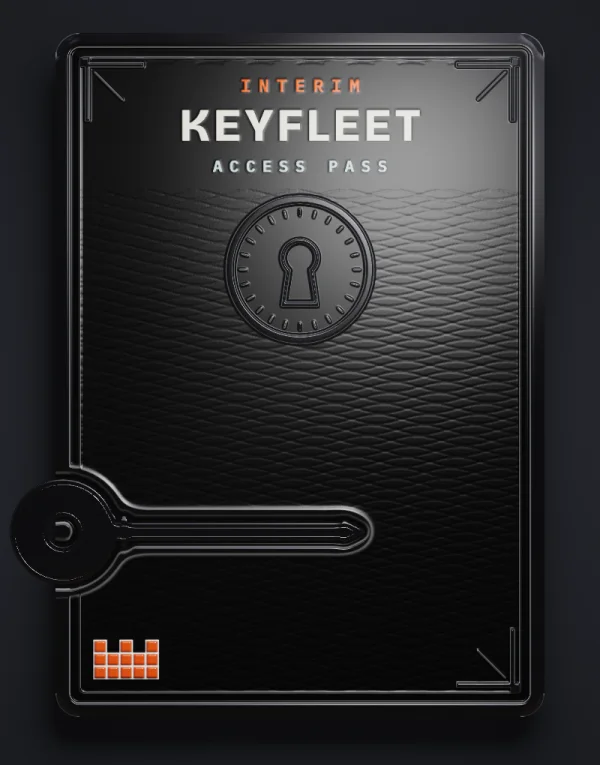
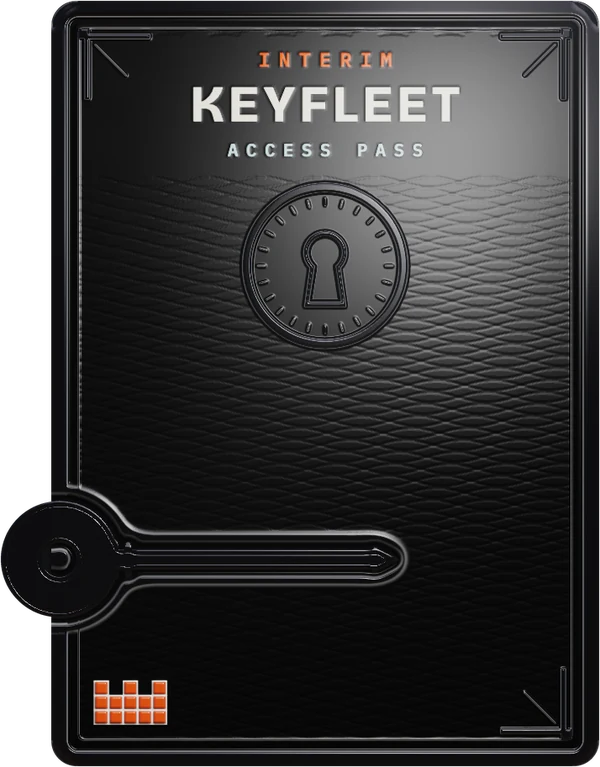
Keyfleet hero: live hex field and cut-out Key pass
The hex field answers the pointer, touch and scroll: whole tiles warm along
the pointer's path and fade, a press or tap sends a ring outward, and a
touch drag or a scroll under a resting mouse leaves the same trail. The
field draws only while a mark is fading and is still otherwise; reduced
motion keeps the still picture.

The pass is cut out of its studio backdrop so it stands on the field with a
shadow along its own outline, and the price tag sits beside the crown.

diff --git a/platform/assets/js/hooks/keyfleet_hero.ts b/platform/assets/js/hooks/keyfleet_hero.ts
@@ -48,11 +48,20 @@ const finePointer = () => matchMedia("(hover: hover) and (pointer: fine)").match
 
 type IslandHook = {el: HTMLElement; controller?: CanvasIslandController}
 
+/** How many tiles apart the marks of a wake are laid, and the most one move may lay. */
+const WAKE_SPACING = 0.5
+const WAKE_MARKS_PER_MOVE = 12
+
 /**
  * The hex field. `data-field-cell` is the distance between neighbouring tiles
- * in CSS pixels. The pointer anywhere in the element marked `data-field-scope`
- * lights the tiles near it; inside a hero, previewing the Key lights the tiles
- * around the card. Less motion keeps the picture and drops the pointer's light.
+ * in CSS pixels. Anywhere in the element marked `data-field-scope`, a mouse
+ * lights the tiles near it, and a mouse or a finger leaves a wake of lit tiles
+ * that fades behind it; scrolling under a resting mouse draws the wake along
+ * the tiles passing beneath it. A press or a tap sends a ring out across the
+ * tiles. Inside a hero, previewing the Key, by pointing or by tabbing to Buy,
+ * lights the tiles around the card. Nothing moves unless someone does, and
+ * the field is still again shortly after. Less motion keeps the picture and
+ * drops the pointer's light, the wake and the ring.
  */
 export const KeyfleetField = {
   mounted(this: IslandHook) {
@@ -99,14 +108,62 @@ export const KeyfleetField = {
           preview()
         })
 
+        // The last place the wake reached, in CSS pixels across the canvas, so a
+        // fast move or a scroll still leaves an unbroken line of tiles.
+        let trail: [number, number] | undefined
+        let mouse: [number, number] | undefined
+        const leave = (clientX: number, clientY: number) => {
+          const field = renderer()
+          if (!field) return
+          const box = canvas().getBoundingClientRect()
+          const to: [number, number] = [clientX - box.left, clientY - box.top]
+          const from = trail ?? to
+          const spacing = cell * WAKE_SPACING
+          const gap = Math.hypot(to[0] - from[0], to[1] - from[1])
+          if (trail && gap < spacing) return
+          const count = Math.min(WAKE_MARKS_PER_MOVE, Math.max(1, Math.round(gap / spacing)))
+          for (let i = 1; i <= count; i += 1) {
+            const t = i / count
+            field.wake((from[0] + (to[0] - from[0]) * t) / box.width, (from[1] + (to[1] - from[1]) * t) / box.height)
+          }
+          trail = to
+        }
+
         const onMove = (event: PointerEvent) => {
-          if (!event.isPrimary || still(root)) return
+          if (!event.isPrimary || event.pointerType === "touch" || still(root)) return
           const [x, y] = across(event, canvas().getBoundingClientRect())
           renderer()?.point(x, y)
+          mouse = [event.clientX, event.clientY]
+          leave(event.clientX, event.clientY)
           nudge()
         }
-        const onLeave = () => {
+        const onLeave = (event: PointerEvent) => {
+          if (event.pointerType === "touch") return
+          mouse = undefined
+          trail = undefined
           renderer()?.rest()
+          nudge()
+        }
+        const onPress = (event: PointerEvent) => {
+          if (!event.isPrimary || still(root)) return
+          const [x, y] = across(event, canvas().getBoundingClientRect())
+          renderer()?.ring(x, y)
+          nudge()
+        }
+        const onTouch = (event: TouchEvent) => {
+          const touch = event.touches[0]
+          if (!touch || still(root)) return
+          leave(touch.clientX, touch.clientY)
+          nudge()
+        }
+        const onLift = () => { trail = undefined }
+        // The page moves under a resting mouse, so the pointer's light moves
+        // to the tiles now beneath it, and the wake follows.
+        const onScroll = () => {
+          if (!mouse || still(root)) return
+          const box = canvas().getBoundingClientRect()
+          renderer()?.point((mouse[0] - box.left) / box.width, (mouse[1] - box.top) / box.height)
+          leave(mouse[0], mouse[1])
           nudge()
         }
         const onEnter = () => { hovering = true; preview() }
@@ -119,9 +176,15 @@ export const KeyfleetField = {
 
         const events = new AbortController()
         const options = {signal: events.signal, passive: true}
+        scope.addEventListener("pointermove", onMove, options)
+        scope.addEventListener("pointerleave", onLeave, options)
+        scope.addEventListener("pointerdown", onPress, options)
+        scope.addEventListener("touchstart", onTouch, options)
+        scope.addEventListener("touchmove", onTouch, options)
+        scope.addEventListener("touchend", onLift, options)
+        scope.addEventListener("touchcancel", onLift, options)
+        window.addEventListener("scroll", onScroll, options)
         if (finePointer()) {
-          scope.addEventListener("pointermove", onMove, options)
-          scope.addEventListener("pointerleave", onLeave, options)
           buy?.addEventListener("pointerenter", onEnter, options)
           buy?.addEventListener("pointerleave", onExit, options)
         }

diff --git a/platform/assets/js/keyfleet_hero/renderer.ts b/platform/assets/js/keyfleet_hero/renderer.ts
@@ -2,8 +2,9 @@
  * Draws the Keyfleet hero's hex field with WebGPU through vgpu, behind the hero
  * and the Club's map, only when something changed. There is no clock and no
  * idle loop. A pointer or a preview sets a target, the picture eases toward it
- * for a few frames and stops. Loaded only once a field is really going to be
- * shown.
+ * for a few frames and stops; a wake or a ring fades within the island's
+ * easing frames, so the field is always still again shortly after the last
+ * touch. Loaded only once a field is really going to be shown.
  *
  * Each value reaches the shader when it changes: the size when the canvas is
  * resized, the colours when the theme changes, the pointer on each frame.
@@ -11,8 +12,8 @@
 import {prepareShader} from "@vgpu/wgsl/prepare"
 import {effect, frame, init, surface} from "vgpu"
 
-import type {IslandRenderer} from "../canvas_island"
-import {fieldWgsl} from "./shader"
+import {EASING_FRAME_LIMIT, type IslandRenderer} from "../canvas_island"
+import {fieldWgsl, MARKS} from "./shader"
 
 export type Rgb = readonly [number, number, number]
 type Vec4 = [number, number, number, number]
@@ -20,6 +21,24 @@ type Vec4 = [number, number, number, number]
 /** How far one frame closes the gap to a target, and when the gap counts as closed. */
 const EASE = 0.2
 const CLOSE = 0.002
+
+/**
+ * How many frames a wake or a ring lasts, and how many tiles a ring spreads
+ * each frame. A mark is gone before the island's easing frames run out, so
+ * the frame that snaps home has nothing left to remove.
+ */
+const LIFE = EASING_FRAME_LIMIT - 2
+const RING_SPREAD = 0.3
+
+/** A wake or a ring laid at x, y (0..1 across the canvas), `age` frames ago. */
+type Mark = {x: number; y: number; age: number; ring: boolean}
+const unmarked = [0, 0, 0, -1] as const
+
+/** Full strength at first, easing out to nothing at the end of its life. */
+const strength = (m: Mark) => {
+  const t = Math.min(1, m.age / LIFE)
+  return (m.ring ? 0.9 : 1) * (1 - t * t * (3 - 2 * t))
+}
 
 /** One eased value: where it is, and where it is going. */
 const eased = (value = 0) => ({value, target: value})
@@ -48,6 +67,10 @@ export type FieldRenderer = IslandRenderer & {
   key(x: number, y: number, reach: number): void
   /** Whether the Key is being previewed. */
   lit(on: boolean): void
+  /** A pointer or a finger passed over x, y (0..1 across the canvas). */
+  wake(x: number, y: number): void
+  /** A press at x, y sends a ring out across the tiles. */
+  ring(x: number, y: number): void
 }
 
 export async function createFieldRenderer(
@@ -82,6 +105,7 @@ export async function createFieldRenderer(
           light: [1, 1, 1, 1],
           pointer: [0.5, 0.5, 0, 0],
           key: placed(),
+          marks: Array.from({length: MARKS}, () => unmarked),
         },
       },
     })
@@ -95,6 +119,16 @@ export async function createFieldRenderer(
     const y = eased(0.5)
     const presence = eased()
     const glow = eased()
+    // The newest marks win once the field holds as many as it can draw.
+    let marks: Mark[] = []
+    const mark = (next: Mark) => {
+      marks.push(next)
+      if (marks.length > MARKS) marks.shift()
+    }
+    const age = () => {
+      for (const m of marks) m.age += 1
+      marks = marks.filter(m => m.age < LIFE)
+    }
     // The pointer's first position is taken as it is, so the light appears
     // where the pointer is instead of sliding in from the last place it left.
     const jump = (value: Eased, to: number) => {
@@ -121,12 +155,31 @@ export async function createFieldRenderer(
       lit(on) {
         glow.target = on ? 1 : 0
       },
+      wake(mx, my) {
+        mark({x: mx, y: my, age: 0, ring: false})
+      },
+      ring(mx, my) {
+        mark({x: mx, y: my, age: 0, ring: true})
+      },
       resize(width, height) {
         stage.resize([width, height])
       },
-      step: snap => advance([x, y, presence, glow], snap),
+      step(snap) {
+        const marked = marks.length > 0
+        if (snap) marks = []
+        else age()
+        return advance([x, y, presence, glow], snap) || marked
+      },
       present() {
-        shader.set({params: {pointer: [x.value, y.value, presence.value, glow.value]}})
+        shader.set({
+          params: {
+            pointer: [x.value, y.value, presence.value, glow.value],
+            marks: Array.from({length: MARKS}, (_, i) => {
+              const m = marks[i]
+              return m ? [m.x, m.y, strength(m), m.ring ? m.age * RING_SPREAD : -1] : unmarked
+            }),
+          },
+        })
         frame(gpu, current => current.pass(stage, shader))
       },
       async settled() {

diff --git a/platform/assets/js/keyfleet_hero/shader.ts b/platform/assets/js/keyfleet_hero/shader.ts
@@ -2,9 +2,13 @@
  * The Keyfleet hero's hex field, one fullscreen pass over a clear canvas with
  * premultiplied alpha, so the page's own ground shows through and only the
  * lines and the light are the shader's: pointy-top hex tiles behind the hero
- * and the Club's map, a hairline rim on each, lit near the pointer and around
+ * and the Club's map, a hairline rim on each, lit near the pointer, along the
+ * wake a pointer or a finger leaves, in the ring a press sends out, and around
  * the Key while it is previewed.
  */
+
+/** How many marks of a wake or a ring the field holds at once. */
+export const MARKS = 32
 
 export const fieldWgsl = /* wgsl */ `
 struct Params {
@@ -13,6 +17,9 @@ struct Params {
   light: vec4f,
   pointer: vec4f,
   key: vec4f,
+  // Each mark: where it is (0..1 across the canvas), how strong it still is,
+  // and, for a ring, how far it has spread in tiles (below zero for a wake).
+  marks: array<vec4f, ${MARKS}>,
 }
 @group(0) @binding(0) var<uniform> params: Params;
 
@@ -56,9 +63,25 @@ fn grain(cell: vec2f) -> f32 {
   let toKey = distance(centre, params.key.xy * params.size.xy) / max(params.key.z, 1.0);
   let lit = (1.0 - smoothstep(0.15, 1.0, toKey)) * params.pointer.w;
 
+  // A wake lights whole tiles along its path; a ring lights the tiles it is
+  // passing through.
+  var wake = 0.0;
+  for (var i = 0u; i < ${MARKS}u; i += 1u) {
+    let mark = params.marks[i];
+    if (mark.z <= 0.0) { continue; }
+    let d = distance(centre, mark.xy * params.size.xy) / cell;
+    let reach = select(
+      1.0 - smoothstep(0.0, 0.9, abs(d - mark.w)),
+      1.0 - smoothstep(0.35, 1.3, d),
+      mark.w < 0.0,
+    );
+    wake = max(wake, mark.z * reach);
+  }
+
   var color = vec4f(0.0);
   color = over(color, params.line.rgb, face * (0.025 + grain(p - h.xy) * 0.035 + near * 0.08));
   color = over(color, params.line.rgb, rim * (0.16 + near * 0.32));
   color = over(color, params.light.rgb, face * lit * (0.10 + grain(p - h.xy) * 0.08) + rim * lit * 0.45);
+  color = over(color, params.light.rgb, face * wake * (0.30 + grain(p - h.xy) * 0.12) + rim * wake * 0.85);
   return color;
 }`

diff --git a/platform/assets/css/pages/keyfleet_hero.css b/platform/assets/css/pages/keyfleet_hero.css
@@ -66,20 +66,21 @@
      price, and under them the reason it can't be pressed yet. */
   .kf-buy { grid-area: buy; display: grid; gap: var(--space-2); justify-self: center; inline-size: min(100%, 22rem); }
   .kf-buy__card {
-    position: relative; aspect-ratio: 600 / 765; perspective: 60rem;
+    position: relative; aspect-ratio: 600 / 767; perspective: 60rem;
     transition: transform 240ms var(--kf-ease), opacity 240ms var(--kf-ease);
   }
-  .kf-buy__tilt {
-    position: absolute; inset: 0;
-    clip-path: polygon(var(--rg-cut-panel) 0, 100% 0, 100% calc(100% - var(--rg-cut-panel)), calc(100% - var(--rg-cut-panel)) 100%, 0 100%, 0 var(--rg-cut-panel));
-    background: var(--palette-charcoal);
-    box-shadow: 0 1.5rem 3rem -1.5rem rgb(0 0 0 / .6);
+  /* The pass is cut out of its studio backdrop, so it stands on the hex field
+     itself; its shadow follows its own outline. */
+  .kf-buy__tilt { position: absolute; inset: 0; }
+  .kf-buy__tilt img {
+    display: block; inline-size: 100%; block-size: 100%;
+    filter: drop-shadow(0 .75rem 1rem rgb(0 0 0 / .32));
   }
-  .kf-buy__tilt img { display: block; inline-size: 100%; block-size: 100%; object-fit: cover; }
-  /* The price on the card itself, in its corner. The card's art is dark in
-     both themes, so the chip keeps light ink on charcoal in both. */
+  /* The price on the card itself, beside the crown in the pass's lower corner:
+     on the 714 × 913 picture the crown ends 196 across and 54 above the bottom.
+     The pass is dark in both themes, so the chip keeps light ink on charcoal in both. */
   .kf-buy__tag {
-    position: absolute; inset-inline-start: var(--space-2); inset-block-end: var(--space-2);
+    position: absolute; inset-inline-start: calc(100% * 214 / 714); inset-block-end: calc(100% * 54 / 913);
     padding: .25rem .5rem; background: rgb(22 22 22 / .82); color: var(--palette-platinum);
     font-family: var(--font-family-mono); font-size: .75rem; font-variant-numeric: tabular-nums;
     border: 1px solid rgb(229 227 210 / .18);
